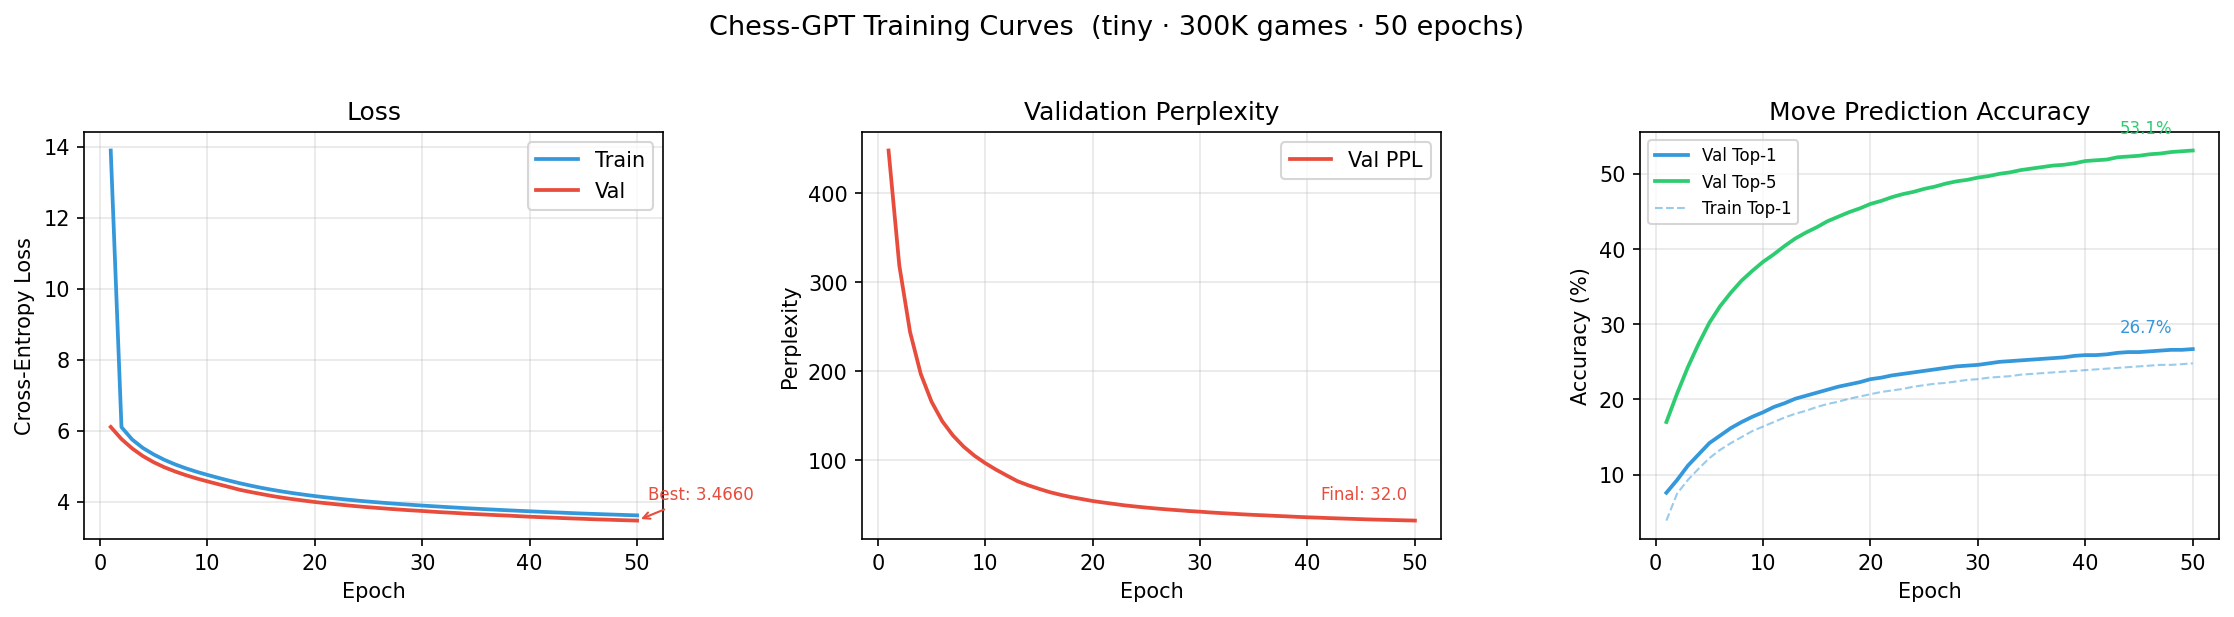
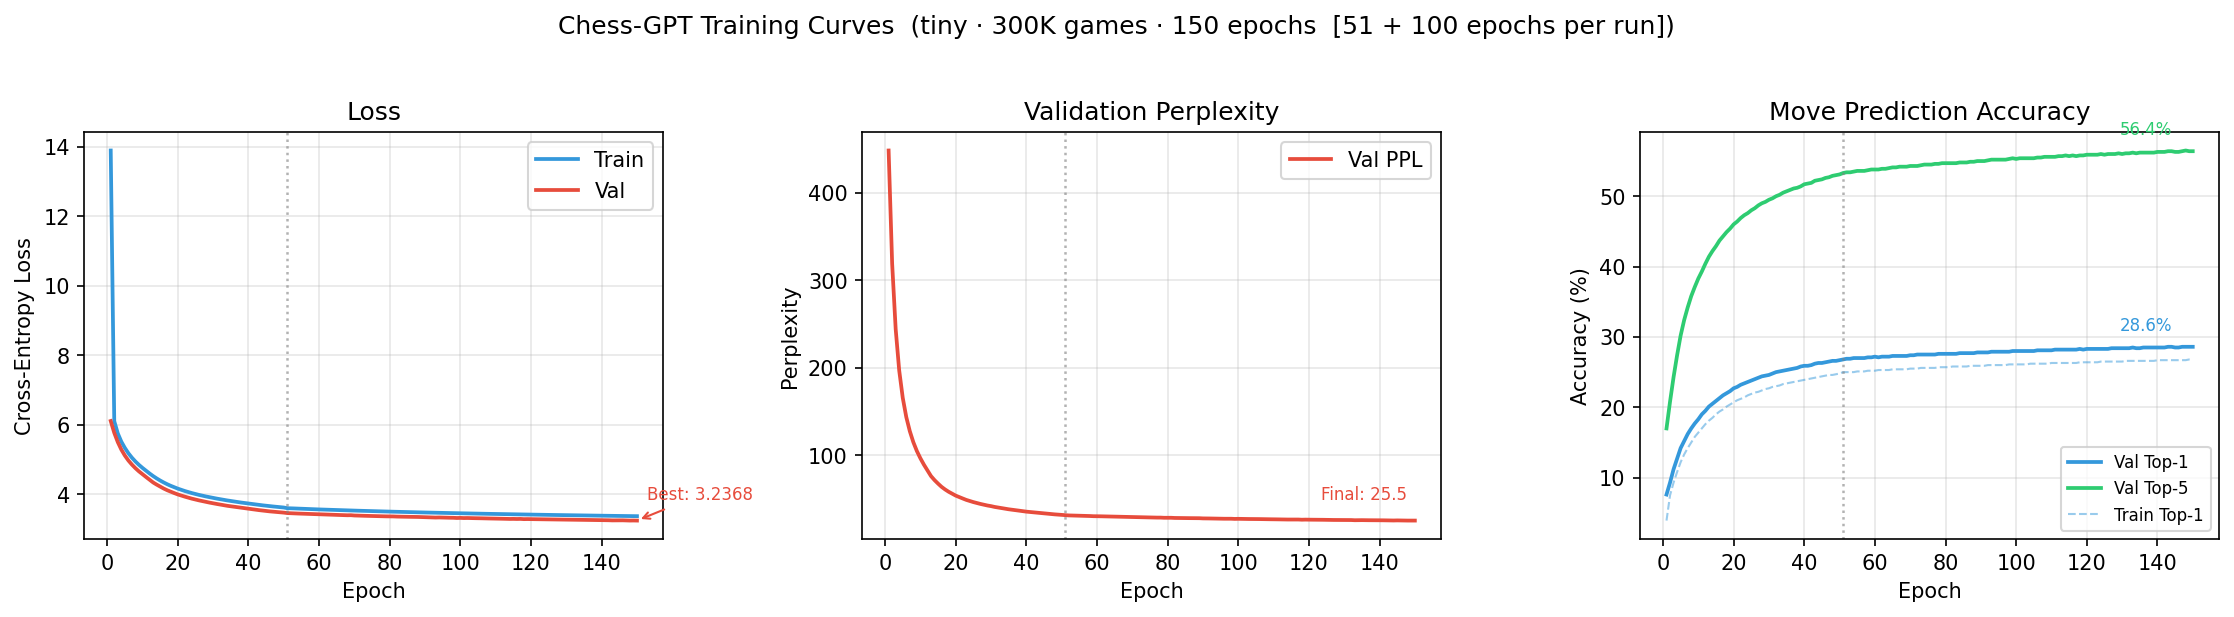
Regenerate plots: combine run1 (50ep) + run2 (100ep) into 150-epoch training curve

diff --git a/chess-gpt/generate_readme_plots.py b/chess-gpt/generate_readme_plots.py
@@ -1,6 +1,7 @@
 """
 Generate README plots for Chess-GPT:
-  1. Training curves (loss, perplexity, top-1, top-5) — from log file
+  1. Training curves (loss, perplexity, top-1, top-5) — from one or more log files
+     Multiple logs are concatenated with epoch offsets so the x-axis is continuous.
   2. Game length analysis — from notebook stats (no PGN reload needed)
 
 Output: assets/training_curves.png, assets/game_analysis.png
@@ -17,9 +18,7 @@ import numpy as np
 
 Path('assets').mkdir(exist_ok=True)
 
-# ── 1. Parse training log ─────────────────────────────────────────────────────
-
-LOG = Path('artifacts/logs/chessgpt_tiny_300k.log')
+# ── 1. Parse training logs (multiple runs concatenated) ───────────────────────
 
 EPOCH_RE = re.compile(
     r'Epoch\s+(\d+)\s+\|'
@@ -27,54 +26,68 @@ EPOCH_RE = re.compile(
     r'\s+\|\s+vl_loss=([\d.]+)\s+vl_ppl=([\d.]+)\s+vl_top1=([\d.]+)%\s+vl_top5=([\d.]+)%'
 )
 
-epochs, tr_loss, tr_top1 = [], [], []
-vl_loss, vl_ppl, vl_top1, vl_top5 = [], [], [], []
+# (log_path, epoch_offset, label)
+LOGS = [
+    ('artifacts/logs/chessgpt_tiny_300k.log',      0,  'Run 1 (epochs 1–50)'),
+    ('artifacts/logs/chessgpt_tiny_300k_cont.log', 50, 'Run 2 (epochs 51–150)'),
+]
 
-with open(LOG) as f:
-    for line in f:
-        m = EPOCH_RE.search(line)
-        if m:
-            ep = int(m.group(1))
-            # keep only latest value per epoch (log may have duplicates from restarts)
-            if ep in epochs:
-                idx = epochs.index(ep)
-                tr_loss[idx] = float(m.group(2))
-                tr_top1[idx] = float(m.group(4))
-                vl_loss[idx] = float(m.group(5))
-                vl_ppl[idx]  = float(m.group(6))
-                vl_top1[idx] = float(m.group(7))
-                vl_top5[idx] = float(m.group(8))
-            else:
-                epochs.append(ep)
-                tr_loss.append(float(m.group(2)))
-                tr_top1.append(float(m.group(4)))
-                vl_loss.append(float(m.group(5)))
-                vl_ppl.append(float(m.group(6)))
-                vl_top1.append(float(m.group(7)))
-                vl_top5.append(float(m.group(8)))
+def parse_log(path, offset):
+    ep_dict = {}   # ep_global → (tr_loss, tr_top1, vl_loss, vl_ppl, vl_top1, vl_top5)
+    with open(path) as f:
+        for line in f:
+            m = EPOCH_RE.search(line)
+            if m:
+                ep_global = int(m.group(1)) + offset
+                ep_dict[ep_global] = (
+                    float(m.group(2)), float(m.group(4)),
+                    float(m.group(5)), float(m.group(6)),
+                    float(m.group(7)), float(m.group(8)),
+                )
+    return ep_dict
 
-epochs  = np.array(epochs)
-tr_loss = np.array(tr_loss)
-tr_top1 = np.array(tr_top1)
-vl_loss = np.array(vl_loss)
-vl_ppl  = np.array(vl_ppl)
-vl_top1 = np.array(vl_top1)
-vl_top5 = np.array(vl_top5)
+combined = {}
+join_epochs = []
+for path, offset, label in LOGS:
+    chunk = parse_log(path, offset)
+    if offset > 0:
+        join_epochs.append(offset + 1)   # first epoch of this run on the global axis
+    combined.update(chunk)
+    print(f'  {label}: {len(chunk)} epochs parsed from {path}')
 
-print(f'Parsed {len(epochs)} epochs from log.')
+sorted_eps = sorted(combined)
+epochs  = np.array(sorted_eps)
+tr_loss = np.array([combined[e][0] for e in sorted_eps])
+tr_top1 = np.array([combined[e][1] for e in sorted_eps])
+vl_loss = np.array([combined[e][2] for e in sorted_eps])
+vl_ppl  = np.array([combined[e][3] for e in sorted_eps])
+vl_top1 = np.array([combined[e][4] for e in sorted_eps])
+vl_top5 = np.array([combined[e][5] for e in sorted_eps])
+
+print(f'Combined: {len(epochs)} epochs  ({epochs[0]}–{epochs[-1]})')
 
 # ── Plot 1: Training curves ───────────────────────────────────────────────────
 
 fig, axes = plt.subplots(1, 3, figsize=(15, 4))
-fig.suptitle('Chess-GPT Training Curves  (tiny · 300K games · 50 epochs)',
-             fontsize=13, y=1.02)
+fig.suptitle(
+    f'Chess-GPT Training Curves  (tiny · 300K games · {epochs[-1]} epochs'
+    f'  [{" + ".join(str(j - (join_epochs[i-1] if i else 0)) for i, j in enumerate([*join_epochs, epochs[-1]+1]))} epochs per run])'
+    if join_epochs else
+    f'Chess-GPT Training Curves  (tiny · 300K games · {epochs[-1]} epochs)',
+    fontsize=12, y=1.02
+)
 
 BLUE, RED = '#3498db', '#e74c3c'
+
+def _add_join_vlines(ax):
+    for je in join_epochs:
+        ax.axvline(je, color='gray', ls=':', lw=1.2, alpha=0.6)
 
 # Loss
 ax = axes[0]
 ax.plot(epochs, tr_loss, color=BLUE, lw=1.8, label='Train')
 ax.plot(epochs, vl_loss, color=RED,  lw=1.8, label='Val')
+_add_join_vlines(ax)
 ax.set_xlabel('Epoch'); ax.set_ylabel('Cross-Entropy Loss')
 ax.set_title('Loss'); ax.legend(); ax.grid(alpha=0.3)
 ax.annotate(f'Best: {min(vl_loss):.4f}',
@@ -86,6 +99,7 @@ ax.annotate(f'Best: {min(vl_loss):.4f}',
 # Perplexity
 ax = axes[1]
 ax.plot(epochs, vl_ppl, color=RED, lw=1.8, label='Val PPL')
+_add_join_vlines(ax)
 ax.set_xlabel('Epoch'); ax.set_ylabel('Perplexity')
 ax.set_title('Validation Perplexity'); ax.legend(); ax.grid(alpha=0.3)
 ax.annotate(f'Final: {vl_ppl[-1]:.1f}',
@@ -95,9 +109,10 @@ ax.annotate(f'Final: {vl_ppl[-1]:.1f}',
 
 # Top-1 / Top-5 accuracy
 ax = axes[2]
-ax.plot(epochs, vl_top1, color=BLUE,    lw=1.8, label='Val Top-1')
+ax.plot(epochs, vl_top1, color=BLUE,      lw=1.8, label='Val Top-1')
 ax.plot(epochs, vl_top5, color='#2ecc71', lw=1.8, label='Val Top-5')
-ax.plot(epochs, tr_top1, color=BLUE,    lw=1, ls='--', alpha=0.5, label='Train Top-1')
+ax.plot(epochs, tr_top1, color=BLUE,      lw=1, ls='--', alpha=0.5, label='Train Top-1')
+_add_join_vlines(ax)
 ax.set_xlabel('Epoch'); ax.set_ylabel('Accuracy (%)')
 ax.set_title('Move Prediction Accuracy'); ax.legend(fontsize=8); ax.grid(alpha=0.3)
 ax.annotate(f'{vl_top1[-1]:.1f}%', xy=(epochs[-1], vl_top1[-1]),